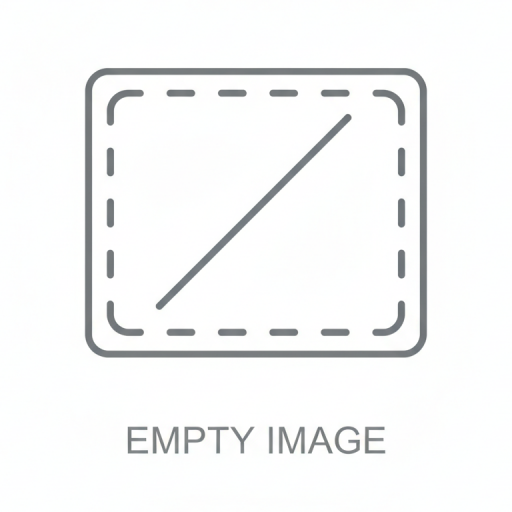
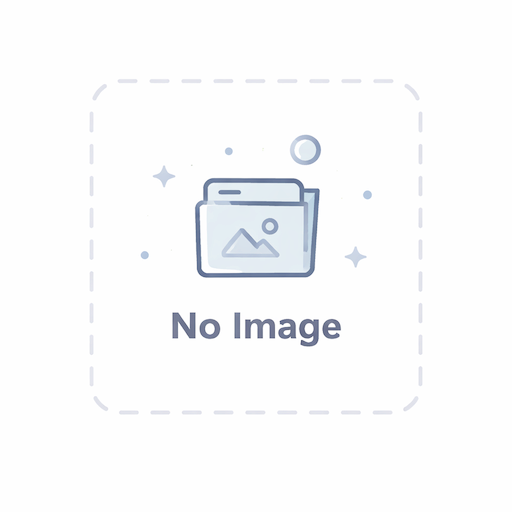
Moved image decoding from ViewerState to TextureManager, refactored texture loading to accept MediaEntry instead of DecodedImage, Added show_thumbnail (In Progress ...)

diff --git a/src/app/mod.rs b/src/app/mod.rs
@@ -478,34 +478,6 @@ impl ViewerState {
         requested
     }
 
-    /// Decode the selected image into RGBA bytes for texture upload.
-    pub fn load_current_image_rgba(&mut self) -> anyhow::Result<Option<DecodedImage>> {
-        let Some(entry) = self.current_entry() else {
-            self.current_image_size = None;
-            self.clear_image_selection_state();
-            return Ok(None);
-        };
-        let path = entry.path.clone();
-        let file_name = entry.file_name.clone();
-        let file_size = entry.file_size;
-
-        match image_loader::load_image_rgba(&path) {
-            Ok(decoded) => {
-                self.current_image_size = Some((decoded.width, decoded.height));
-                self.status_message =
-                    format!("Viewing {} ({})", file_name, format_file_size(file_size));
-                Ok(Some(decoded))
-            }
-            Err(err) => {
-                self.current_image_size = None;
-                self.clear_image_selection_state();
-                self.status_message = format!("Failed to decode {}: {:#}", file_name, err);
-                log::error!("Image decode error for {}: {:#}", path.display(), err);
-                Err(err)
-            }
-        }
-    }
-
     fn sort_media_items(&mut self) {
         let selected_path = self.current_entry().map(|entry| entry.path.clone());
         let sort_direction = self.sort_direction;

diff --git a/src/render/texture_manager.rs b/src/render/texture_manager.rs
@@ -8,8 +8,12 @@ use anyhow::{Result, bail};
 use imgui::TextureId;
 use imgui_wgpu::{Renderer, Texture, TextureConfig};
 use wgpu::{Device, Extent3d, Queue, TextureFormat};
-
-use crate::core::image_loader::DecodedImage;
+use crate::{
+    core::{
+        image_loader::{self},
+        media::{MediaEntry},
+    },
+};
 
 pub struct UploadedTexture {
     pub id: TextureId,
@@ -48,7 +52,7 @@ impl TextureManager {
     pub fn get_or_upload(
         &mut self,
         path: &Path,
-        decoded: &DecodedImage,
+        entry: &MediaEntry,
         device: &Device,
         queue: &Queue,
         renderer: &mut Renderer,
@@ -64,9 +68,13 @@ impl TextureManager {
             });
         }
 
-        if decoded.pixels.is_empty() || decoded.width == 0 || decoded.height == 0 {
-            bail!("cannot upload empty image buffer");
-        }
+        let decoded = match image_loader::load_image_rgba(&entry.path)
+        {
+            Ok(decoded) => decoded,
+            Err(e) => {
+                bail!("failed to load image: {}", e);
+            }
+        };
 
         if decoded.width as u32 > self.max_texture_size
             || decoded.height as u32 > self.max_texture_size

diff --git a/src/main.rs b/src/main.rs
@@ -639,14 +639,11 @@ fn refresh_current_texture(
     renderer: &mut imgui_wgpu::Renderer,
     texture_manager: &mut TextureManager,
 ) -> Option<UploadedTexture> {
-    let decoded = match app_state.load_current_image_rgba() {
-        Ok(Some(decoded)) => decoded,
-        Ok(None) => return None,
-        Err(_) => return None,
+    let Some(entry) = app_state.current_entry() else {
+        return None;
     };
 
-    let entry = app_state.current_entry()?;
-    match texture_manager.get_or_upload(&entry.path, &decoded, device, queue, renderer) {
+    match texture_manager.get_or_upload(&entry.path, &entry, device, queue, renderer) {
         Ok(uploaded) => Some(uploaded),
         Err(err) => {
             log::error!(

diff --git a/src/ui/ui.rs b/src/ui/ui.rs
@@ -124,6 +124,7 @@ pub fn render_ui(
                         ui.child_window("library_scroll")
                             .size([0.0, -36.0])
                             .build(|| {
+                                // render file list
                                 for (index, entry) in app_state.media_items().iter().enumerate() {
                                     if render_library_item_row(
                                         ui,